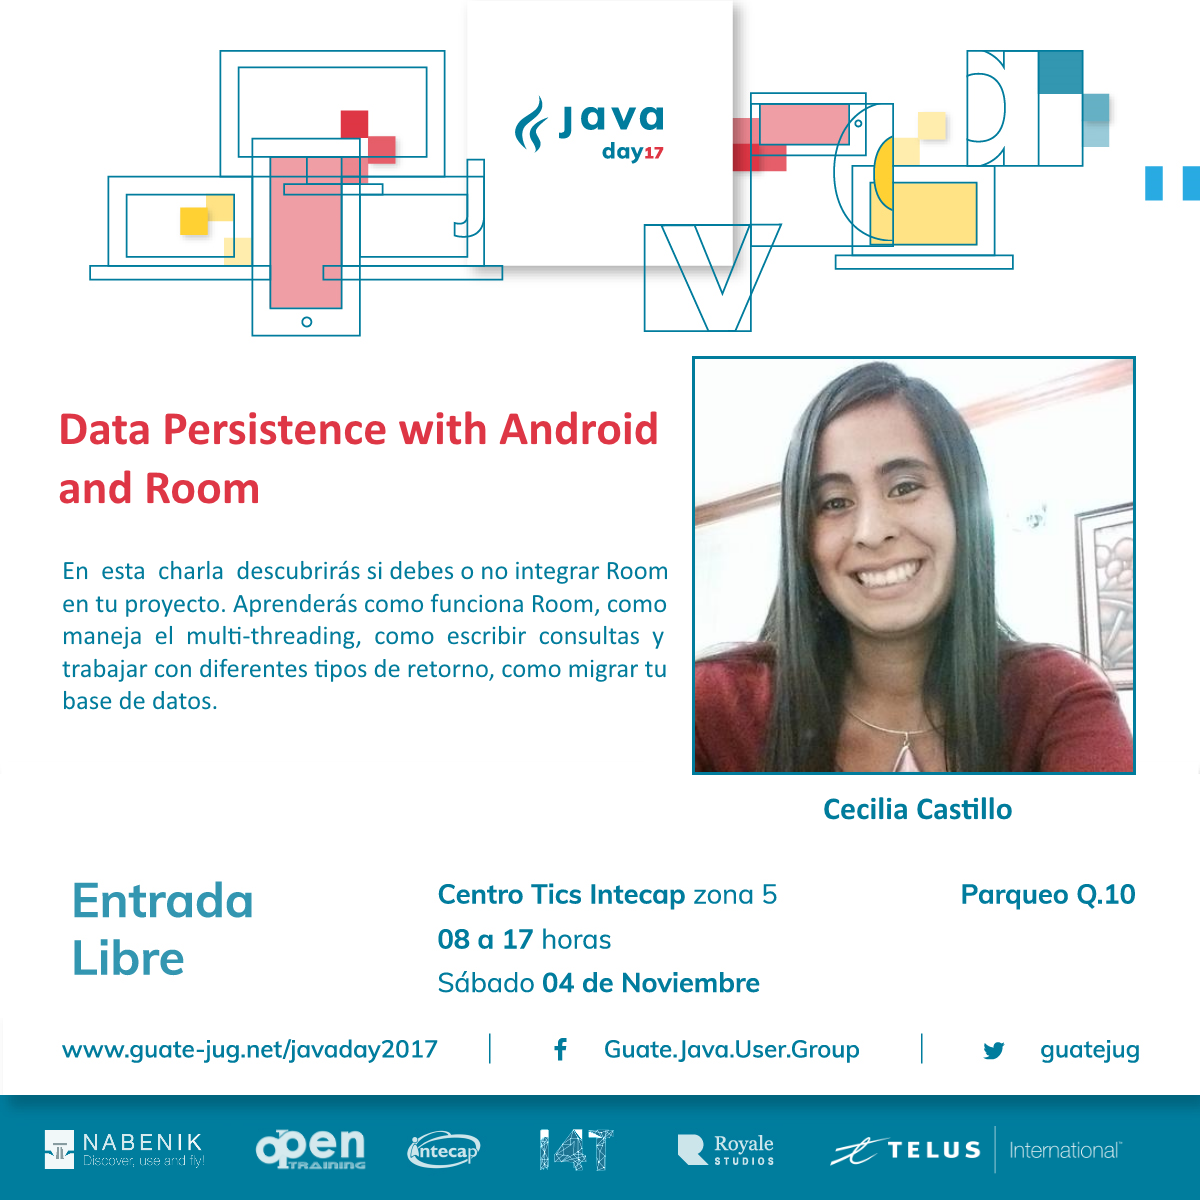
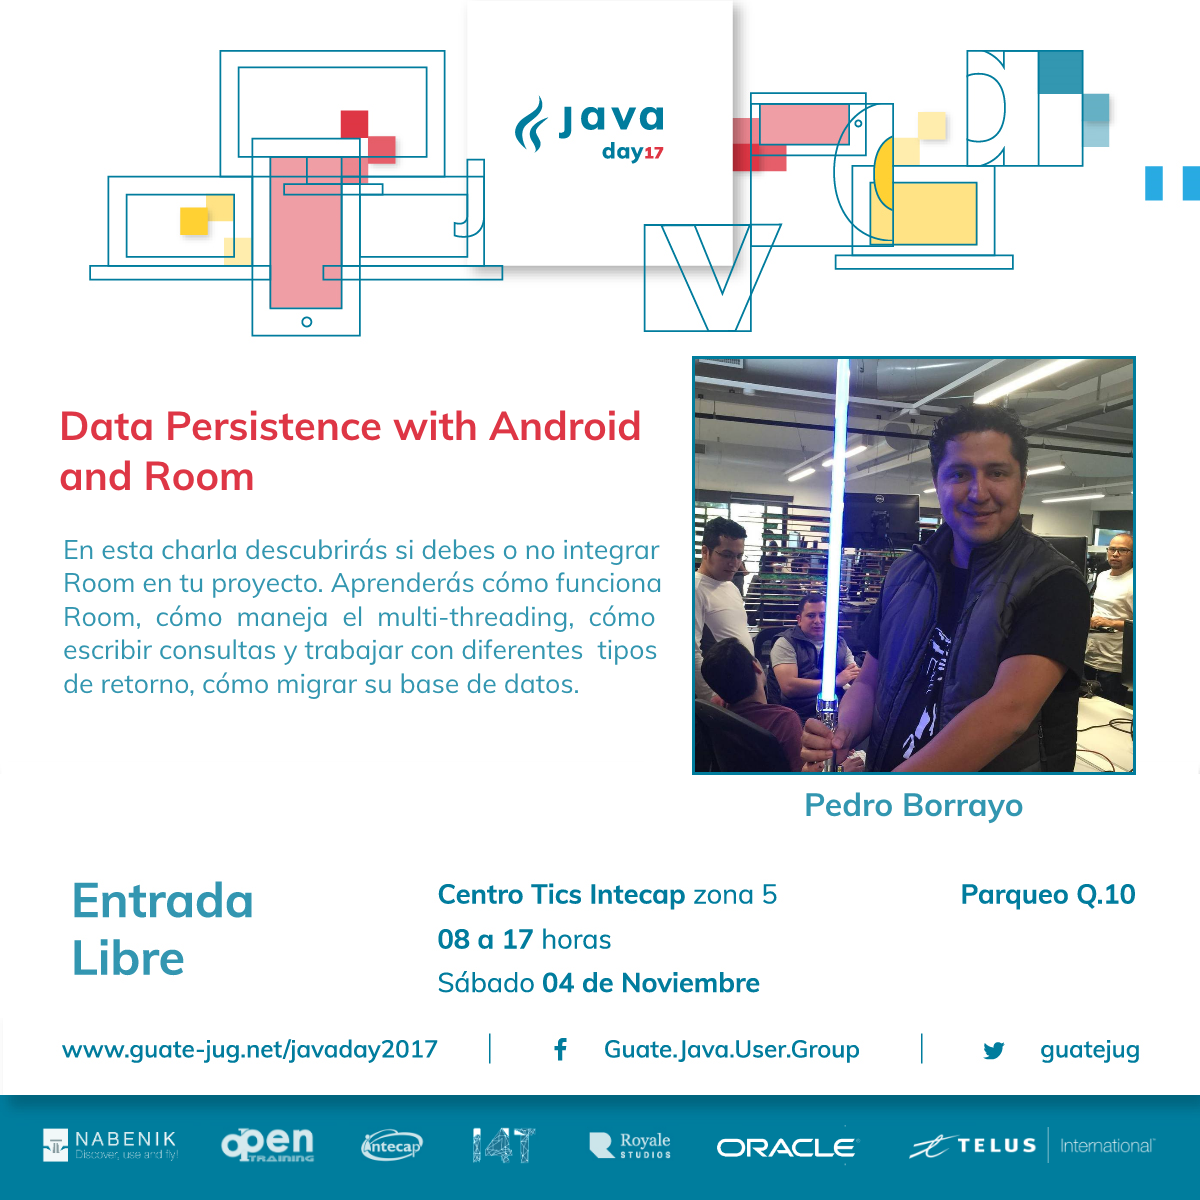
Adding virtual track files

Changed region(s): [[0.0308, 0.2775, 0.9558, 0.7092], [0.185, 0.925, 0.9558, 0.9867], [0.0308, 0.925, 0.1542, 0.9867]]

diff --git a/JavaDay2017/site/content/blog/2017/29-payara-micro.md b/JavaDay2017/site/content/blog/2017/29-payara-micro.md
@@ -1,0 +1,27 @@
+title=Java EE Moderno: De Glassfish a Payara, de monolitos a microservicios
+date=2017-10-25
+type=post
+tags=Server side
+status=published
+img=29.0.png
+summary=Exploraremos la creación de microservicios con Payara Micro, aprovechando el código monolítico existente y lo que podríamos esperar en el futuro.
+category=Server
+~~~~~~
+## Descripción
+Ademas de ofrecer un drop-in replacement con soporte comercial para Glassfish, Payara es uno de los promotores e impulsores de EE4J y Microprofile por lo que es uno de los innovadores del mundo Java Enterprise.
+
+En esta charla exploraremos el estado actual de Java EE 7, Java EE 8 y el futuro con EE4J, así mismo exploraremos la creación de microservicios con Payara Micro, aprovechando el código monolítico existente y lo que podríamos esperar en el futuro.
+
+## Presentador(es)
+* Víctor Orozco
+
+## Bio(s)
+Víctor cuenta con una maestría en ciencias de la computación otorgada por la Universidade Federal de Santa Maria (Brasil) como ex-becario de la Organización de Estados Americanos.
+
+Instructor de micromasters en Edx.org, certificado como desarrollador Java, Duke’s Choice Award, ha sido speaker en conferencias como Java One, DevNexus, Java Cloud Day México, Oracle Technology Network Tour, Forum Internacional de Software Libre entre otras.
+
+Actualmente es director de tecnología en Nabenik, donde se dedica todos los días a programar :).
+
+## Enlaces
+* https://vorozco.com
+* https://twitter.com/tuxtor

diff --git a/JavaDay2017/site/content/blog/2017/24-buenas-practicas-software.md b/JavaDay2017/site/content/blog/2017/24-buenas-practicas-software.md
@@ -1,0 +1,26 @@
+title=Buenas prácticas para la construcción de aplicaciones de software
+date=2017-10-25
+type=post
+tags=Herramientas y métodologias
+status=published
+img=24.0.png
+summary=Como manejar la api de api.ai para crear un bot en Android (Lenguaje Java)
+category=Herramientas
+~~~~~~
+<img class="img-responsive center-block" src="http://www.guate-jug.net/javaday2017/img/post/23.1.png" alt="" width="500px">
+
+## Descripción
+Visión general sobre cómo construir una aplicación de software desde la codificación hasta el despliegue con una sencilla demostración del uso de herramientas gratuitas para un flujo completo.
+
+## Presentador(es)
+* Jorge Alvarez
+* Francisco Castellanos
+
+
+## Bio(s)
+* Me gusta disfrutar de aprender sobre la tecnología y cómo aplicarla para resolver diferentes tipos de problemas, por ejemplo, problemas relacionados con el negocio, problemas sociales, etc.
+* Me gusta mejorar y aprender diferentes habilidades relacionadas con mi área y aplicarlas en mis proyectos actuales
+
+## Enlaces
+* https://www.linkedin.com/in/jorge-alvarez/
+* https://www.linkedin.com/in/fvcastellanos/

diff --git a/JavaDay2017/site/content/blog/2017/30-track-android.md b/JavaDay2017/site/content/blog/2017/30-track-android.md
@@ -1,0 +1,23 @@
+title=Track virtual Android
+date=2017-10-25
+type=post
+tags=Desarrollo móvil
+status=published
+img=29.0.png
+summary=Como sorpresa este año tendremos un track de desarrollo móvil.
+category=Móvil
+~~~~~~
+## Descripción
+Celebrando nuestro 7mo. aniversario, Java Day Guatemala experimentara con un track virtual directo hasta tu hogar.
+
+Estaremos transmitiendo mediante Facebook Live las siguientes ponencias:
+
+<img class="img-responsive center-block" src="http://www.guate-jug.net/javaday2017/img/post/30.0.png" alt="" width="500px">
+
+<img class="img-responsive center-block" src="http://www.guate-jug.net/javaday2017/img/post/31.0.png" alt="" width="500px">
+
+<img class="img-responsive center-block" src="http://www.guate-jug.net/javaday2017/img/post/32.0.png" alt="" width="500px">
+
+<img class="img-responsive center-block" src="http://www.guate-jug.net/javaday2017/img/post/33.0.png" alt="" width="500px">
+
+<img class="img-responsive center-block" src="http://www.guate-jug.net/javaday2017/img/post/34.0.png" alt="" width="500px">

diff --git a/JavaDay2017/site/content/blog/2017/25-neo-blockchain-contracts.md b/JavaDay2017/site/content/blog/2017/25-neo-blockchain-contracts.md
@@ -1,0 +1,21 @@
+title=NEO blockchain, smart contracts in Java
+date=2017-10-25
+type=post
+tags=Herramientas y métodologias
+status=published
+img=25.0.png
+summary=Conceptos generales de blockchain, criptomonedas y smart contracts
+category=Herramientas
+~~~~~~
+## Descripción
+Charla que busca compartir con la audiencia conceptos generales de blockchain, criptomonedas y smart contracts. Específicamente utilizando NEO, que ya es considerado el Ethereum de China y permite el desarrollo de smart contracts utilizando Java.
+
+## Presentador(es)
+* Erick Navarro
+
+
+## Bio(s)
+Me apasiona resolver problemas, soy ingeniero en ciencias y sistemas. Creo en la importancia de la comunidad y el trabajo en equipo, me gusta compartir mis conocimientos y aprender de las demás personas. Actualmente trabajo en las áreas de data warehouse y business intelligence. Me gusta el montañismo y aprender de todo un poco.
+
+## Enlaces
+* https://e-navarro.blogspot.com

diff --git a/JavaDay2017/site/content/blog/2017/23-semana-santa-gt.md b/JavaDay2017/site/content/blog/2017/23-semana-santa-gt.md
@@ -1,0 +1,26 @@
+title=Caso de éxito con "SemanaSantaGT" App en Android
+date=2017-10-25
+type=post
+tags=Desarrollo móvil
+status=published
+img=23.0.png
+summary=Como manejar la api de api.ai para crear un bot en Android (Lenguaje Java)
+category=Móvil
+~~~~~~
+<img class="img-responsive center-block" src="http://www.guate-jug.net/javaday2017/img/post/23.1.png" alt="" width="500px">
+
+## Descripción
+Como  la cultura y el floklore con ayuda de la tecnología móvil pueden hacer que sin importar sus creencias puedan utilizar el mismo producto para distintos métodos y conveniencias.
+
+## Presentador(es)
+* Fernando Lazaro
+* Cristian Florian
+
+## Bio(s)
+* Como digo en mis RRSS: I'm just an awesome app developer and entrepreneur :D
+* Desarrollador en Android, co-creador de la app de "SemanaSantaGT"
+
+
+## Enlaces
+* https://lazarusgt.com
+* http://www.guatevision.com/2017/03/24/semana-santa-en-tiempo-real-desde-una-app/

diff --git a/JavaDay2017/site/content/blog/2017/16-android-room.md b/JavaDay2017/site/content/blog/2017/16-android-room.md
@@ -1,0 +1,19 @@
+title=Data Persistence with Android and Room
+date=2017-10-25
+type=post
+tags=Desarrollo móvil
+status=published
+img=16.0.png
+summary=En esta charla descubrirás si debes o no integrar Room en tu proyecto.
+category=Móvil
+~~~~~~
+
+## Descripción
+En esta charla descubrirás si debes o no integrar Room en tu proyecto. Aprenderá cómo funciona Room, cómo maneja el multi-threading, cómo escribir consultas y trabajar con diferentes tipos de retorno, cómo migrar su base de datos.
+
+
+## Presentador(es)
+Pedro Borrayo
+
+## Bio(s)
+Ingeniero en sistemas graduado de la Universidad Galileo, apasionado por la tecnología. me gusta trabajar como desarrollador de software, tengo 7 años de experiencia trabajando en desarrollo móvil Android / iOS, sitios web, generalista en 3D y videojuegos. Y creo que compartir el conocimiento nos permite aprender más de otros y expandir nuestro propio conocimiento.

diff --git a/JavaDay2017/site/content/blog/2017/27-oracle-continuity.md b/JavaDay2017/site/content/blog/2017/27-oracle-continuity.md
@@ -1,0 +1,21 @@
+title=Oracle Database 12c Application Continuity for Java
+date=2017-10-25
+type=post
+tags=Java Platform
+status=published
+img=27.0.png
+summary=Conceptos generales de blockchain, criptomonedas y smart contracts
+category=Core
+~~~~~~
+## Descripción
+Descripción de caracterésticas y Apis de Transaction Guard y Application continuity de Oracle DB 12c utilizando Java. Mediante estas caracteristicas, developers y arquitectos pueden implementar aplicaciones más robustas, confiables y reutilizables.
+
+## Presentador(es)
+* Julio César Ayapán
+
+## Bio(s)
+Soy un ingeniero en ciencias y sistemas y administrador de base de datos. Oracle Certified Professional 11g y 12c y Oracle Certified Expert Rac 12c, entusiasta por compartir y difundir las tecnologías Oracle en la región.
+
+
+## Enlaces
+* http://oraclehomegt.blogspot.com/

diff --git a/JavaDay2017/site/content/blog/2017/28-vertx-reactivo.md b/JavaDay2017/site/content/blog/2017/28-vertx-reactivo.md
@@ -1,0 +1,24 @@
+title=Vert.x Java en un mundo poliglota y reactivo
+date=2017-10-25
+type=post
+tags=Server side
+status=published
+img=28.0.png
+summary=Uso de la plataforma Java para multiples lenguajes en el backend.
+category=Server
+~~~~~~
+## Descripción
+Uso de la plataforma Java para multiples lenguajes en el backend.
+
+
+## Presentador(es)
+* Marcos Luna Yela
+
+## Bio(s)
+Desarrollador Java por mas de 15 años, amante de la tecnologias WEB/J2EE y opensource.
+
+Promotor de buenas practicas de diseño y programacion.
+
+
+## Enlaces
+* https://gt.linkedin.com/in/marcoslunagt

diff --git a/JavaDay2017/site/content/blog/2017/22-bot-ai-android.md b/JavaDay2017/site/content/blog/2017/22-bot-ai-android.md
@@ -1,0 +1,23 @@
+title=Creando un bot con AI en Android
+date=2017-10-25
+type=post
+tags=Desarrollo móvil
+status=published
+img=22.0.png
+summary=Como manejar la api de api.ai para crear un bot en Android (Lenguaje Java)
+category=Móvil
+~~~~~~
+
+## Descripción
+Como manejar la api de api.ai para crear un bot en Android (Lenguaje Java).
+
+## Presentador(es)
+Fernando Lazaro
+
+
+## Bio(s)
+Como digo en mis RRSS: I'm just an awesome app developer and entrepreneur :D
+
+
+## Enlaces
+* https://lazarusgt.com

diff --git a/JavaDay2017/site/content/blog/2017/20-how-train-dragon.md b/JavaDay2017/site/content/blog/2017/20-how-train-dragon.md
@@ -20,7 +20,7 @@ Bring Magic To Your Mobile Android App With Deep Learning, training models
 
 
 ## Bio(s)
-* "SWE Android 2 - PayPal
+* SWE Android 2 - PayPal
 
 ## Enlaces
 * https://www.linkedin.com/in/jchavezl/
